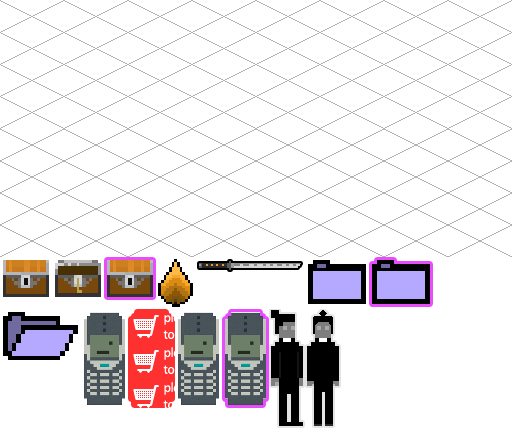
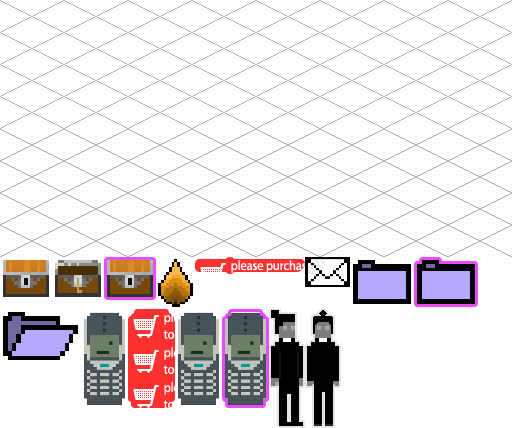
Added Contacts section

Changed region(s): [[0.375, 0.5771, 0.9375, 0.729]]

diff --git a/src/game/systems/PhaserOutputContactRoomCreationSystem.ts b/src/game/systems/PhaserOutputContactRoomCreationSystem.ts
@@ -1,0 +1,223 @@
+import System from "game/ECS/system"
+import {ISystemAdditional, ISystemPhaserInjectable} from "game/systems/index"
+import EntitiesManager from "game/ECS/entitiesmanager"
+
+const PhaserOutputContactRoomCreationSystemName = "PhaserOutputContactRoomCreationSystem"
+
+class PhaserOutputContactRoomCreationSystem extends System<ISystemAdditional, ISystemPhaserInjectable> {
+    public init(
+        entityManager: EntitiesManager,
+        additional: ISystemAdditional,
+        inj: ISystemPhaserInjectable,
+    ): undefined {
+
+        const thirdScreenOffsetY = inj.rooms.fourthRoom.offsetY
+
+        const titleY = thirdScreenOffsetY + 50
+
+        const title = inj.scene.add.text(
+            inj.leftTextStartOffsetX,
+            titleY,
+            "Contacts",
+            {
+                fontFamily: "Connection",
+                fontSize: 60,
+                stroke: "#000",
+                strokeThickness: 5,
+                fill: "#fff",
+            },
+        )
+
+        title.setDepth(inj.gameHeight)
+
+        const subtitleText = inj.scene.add.text(
+            inj.leftTextStartOffsetX,
+            titleY + title.height,
+            "Just call me maybe",
+            {
+                fontFamily: "Connection",
+                fontSize: 25,
+                stroke: "#000",
+                strokeThickness: 5,
+                fill: "#bdbdbd",
+            },
+        )
+
+        subtitleText.setDepth(inj.gameHeight)
+
+        const emailIcon = inj.scene.add.sprite(
+            inj.leftTextStartOffsetX,
+            thirdScreenOffsetY + inj.screenHeight / 2 - 20,
+            "mainatlas",
+            "objects/contacts/EmailIcon.psd",
+        )
+
+        const emailText = inj.scene.add.text(
+            emailIcon.x + emailIcon.width + 30,
+            emailIcon.y + 2,
+            "Email",
+            {
+                fontFamily: "Connection",
+                fontSize: 20,
+                fill: "#fff",
+                stroke: "#000",
+                strokeThickness: 3,
+            },
+        )
+
+        emailText.setDepth(inj.gameHeight)
+
+        const emailValueText = inj.scene.add.text(
+            emailText.x + emailText.width + 100,
+            emailIcon.y + 2,
+            "ditreyw@gmail.com",
+            {
+                fontFamily: "Connection",
+                fontSize: 20,
+                fill: "#e4910f",
+                stroke: "#000",
+                strokeThickness: 3,
+            },
+        )
+
+        emailValueText.setDepth(inj.gameHeight)
+        emailValueText.setInteractive({
+            useHandCursor: true,
+        })
+        emailValueText.on("pointerover", () => {
+            emailValueText.setFill("#eb41ff")
+        })
+        emailValueText.on("pointerout", () => {
+            emailValueText.setFill("#e4910f")
+        })
+
+        let emailValueTextClicked = false
+
+        emailValueText.on("pointerdown", () => {
+            emailValueTextClicked = true
+        })
+
+        const facebookIcon = inj.scene.add.sprite(
+            inj.leftTextStartOffsetX,
+            emailValueText.y + 50,
+            "mainatlas",
+            "objects/contacts/EmailIcon.psd",
+        )
+
+        const facebookText = inj.scene.add.text(
+            facebookIcon.x + facebookIcon.width + 30,
+            facebookIcon.y + 2,
+            "Facebook",
+            {
+                fontFamily: "Connection",
+                fontSize: 20,
+                fill: "#fff",
+                stroke: "#000",
+                strokeThickness: 3,
+            },
+        )
+
+        facebookText.setDepth(inj.gameHeight)
+
+        const facebookValueText = inj.scene.add.text(
+            facebookText.x + facebookText.width + 60,
+            facebookIcon.y + 2,
+            "@davidshekunts",
+            {
+                fontFamily: "Connection",
+                fontSize: 20,
+                fill: "#e4910f",
+                stroke: "#000",
+                strokeThickness: 3,
+            },
+        )
+
+        facebookValueText.setDepth(inj.gameHeight)
+        facebookValueText.setInteractive({
+            useHandCursor: true,
+        })
+        facebookValueText.on("pointerover", () => {
+            facebookValueText.setFill("#eb41ff")
+        })
+        facebookValueText.on("pointerout", () => {
+            facebookValueText.setFill("#e4910f")
+        })
+
+        let facebookValueTextClicked = false
+
+        facebookValueText.on("pointerdown", () => {
+            facebookValueTextClicked = true
+        })
+
+        const linkedInIcon = inj.scene.add.sprite(
+            inj.leftTextStartOffsetX,
+            facebookValueText.y + 50,
+            "mainatlas",
+            "objects/contacts/EmailIcon.psd",
+        )
+
+        const linkedInText = inj.scene.add.text(
+            linkedInIcon.x + linkedInIcon.width + 30,
+            linkedInIcon.y + 2,
+            "LinkedIn",
+            {
+                fontFamily: "Connection",
+                fontSize: 20,
+                fill: "#fff",
+                stroke: "#000",
+                strokeThickness: 3,
+            },
+        )
+
+        linkedInText.setDepth(inj.gameHeight)
+
+        const linkedInValueText = inj.scene.add.text(
+            linkedInText.x + linkedInText.width + 80,
+            linkedInIcon.y + 2,
+            "@davidshekunts",
+            {
+                fontFamily: "Connection",
+                fontSize: 20,
+                fill: "#e4910f",
+                stroke: "#000",
+                strokeThickness: 3,
+            },
+        )
+
+        linkedInValueText.setDepth(inj.gameHeight)
+        linkedInValueText.setInteractive({
+            useHandCursor: true,
+        })
+        linkedInValueText.on("pointerover", () => {
+            linkedInValueText.setFill("#eb41ff")
+        })
+        linkedInValueText.on("pointerout", () => {
+            linkedInValueText.setFill("#e4910f")
+        })
+
+        let linkedInValueTextClicked = false
+
+        linkedInValueText.on("pointerdown", () => {
+            facebookValueTextClicked = true
+        })
+
+        inj.scene.input.addUpCallback(() => {
+            if (emailValueTextClicked) {
+                window.prompt("Copy to clipboard: Ctrl+C, Enter", "ditreyw@gmail.com")
+                emailValueTextClicked = false
+            }
+            if (facebookValueTextClicked) {
+                window.open("https://www.facebook.com/davidshekunts", "_blank")
+                facebookValueTextClicked = false
+            }
+            if (linkedInValueTextClicked) {
+                window.open("https://www.facebook.com/davidshekunts", "_blank")
+                linkedInValueTextClicked = false
+            }
+        }, false)
+
+        return
+    }
+}
+
+export default new PhaserOutputContactRoomCreationSystem(PhaserOutputContactRoomCreationSystemName)

diff --git a/src/game/scenes/GameScene.ts b/src/game/scenes/GameScene.ts
@@ -30,6 +30,7 @@ import {EFoldersType, projectsByFoldersType, projectsById} from "game/models/Por
 import PhaserInputVelocitySystem from "game/systems/PhaserInputVelocitySystem"
 import PhaserOutputProjectSystem from "game/systems/PhaserOutputProjectSystem"
 import GoToTextBtn from "game/objects/GoToTextBtn"
+import PhaserOutputContactRoomCreationSystem from "game/systems/PhaserOutputContactRoomCreationSystem"
 
 const ECS = new ECSManager([
     PhaserInputPositionSystem,
@@ -39,6 +40,7 @@ const ECS = new ECSManager([
     // DashSystem,
     WorldBorderCollisionSystem,
     DynamicDepthSystem,
+    PhaserOutputContactRoomCreationSystem,
     PhaserOutputChestSystem,
     PhaserOutputFolderSystem,
     PhaserOutputProjectSystem,
@@ -101,7 +103,7 @@ export class GameScene extends Phaser.Scene {
         })
         this.spawnPosition = {
             x: this.gameWidth - 100,
-            y: this.rooms.thirdRoom.offsetY + this.screenHeight / 2,
+            y: this.rooms.fourthRoom.offsetY + this.screenHeight / 2,
         }
     }
 
@@ -536,6 +538,9 @@ export class GameScene extends Phaser.Scene {
             deltaTimeScaled: 0,
             projectsById,
             projectsGOGroup: this.projects,
+            rooms: this.rooms,
+            leftTextStartOffsetX: this.leftTextStartOffsetX,
+            screenHeight: this.screenHeight,
         })
     }
 
@@ -600,6 +605,9 @@ export class GameScene extends Phaser.Scene {
             deltaTimeScaled: delta * this.timeSpeedScale.value,
             projectsById,
             projectsGOGroup: this.projects,
+            rooms: this.rooms,
+            leftTextStartOffsetX: this.leftTextStartOffsetX,
+            screenHeight: this.screenHeight,
         })
     }
 }

diff --git a/src/game/objects/GoToTextBtn.ts b/src/game/objects/GoToTextBtn.ts
@@ -3,6 +3,7 @@ export default class GoToTextBtn extends Phaser.GameObjects.Container {
     public id: string
     public btnText: Phaser.GameObjects.Text
     public rect: Phaser.GameObjects.Rectangle
+    private btnClicked: boolean = false
 
     constructor(scene: Phaser.Scene, x: number, y: number, depth: number, center: boolean = false) {
         super(scene, x, y)
@@ -35,6 +36,10 @@ export default class GoToTextBtn extends Phaser.GameObjects.Container {
 
         this.rect.on("pointerout", this.pointerOut)
 
+        this.rect.on("pointerdown", () => {
+            this.btnClicked = true
+        })
+
         this.btnText = scene.add.text(
             x + 13,
             y + 10,
@@ -59,10 +64,17 @@ export default class GoToTextBtn extends Phaser.GameObjects.Container {
         const link = "https://docs.google.com/document/d/" +
             "1oRlYkKEH-9g2wk6Aiiu_-K1tYsw7BHF3OeuCPhi_Aes/edit#heading=h.sgsvqiccdupn"
 
-        // this.btnText.setPadding(12, 10, 20, 10)
-        this.btnText.setInteractive().on("pointerdown", () => {
-            window.open(link, "_self")
+        this.btnText.on("pointerdown", () => {
+            this.btnClicked = true
         })
+
+        scene.input.addUpCallback(() => {
+            if (this.btnClicked) {
+                window.open(link, "_blank")
+                this.btnClicked = false
+            }
+        }, false)
+
         this.btnText.setDepth(depth + 1)
     }
 

diff --git a/src/layouts/Main.tsx b/src/layouts/Main.tsx
@@ -39,9 +39,9 @@ class MainLayout extends React.Component<IProps, IState> {
                         <div className={ cx("leftMenu") }>
                             <div className={ cx("leftMenuContent") }>
                                 <div className={ cx("contacts") }>
-                                    <div className={ cx("item") }>
+                                    <a href={ "https://vk.com/david_shekunts" } target={ "_blank" } id={ "contactEmailId" } className={ cx("item") }>
                                         C
-                                    </div>
+                                    </a>
                                     <div className={ cx("item") }>
                                         C
                                     </div>

diff --git a/src/game/systems/index.ts b/src/game/systems/index.ts
@@ -2,6 +2,7 @@ import Cursors from "game/models/Cursors"
 import Player from "game/objects/Player"
 import GOManager from "game/GOManager"
 import {IProjectsById} from "game/models/Portfolio"
+import Room from "game/models/Room"
 
 export interface ISystemAdditional {
     time: number,
@@ -20,6 +21,9 @@ export interface ISystemPhaserInjectable {
     },
     deltaTimeScaled: number
     projectsById: IProjectsById
+    leftTextStartOffsetX: number
+    rooms: { [key: string]: Room }
+    screenHeight: number
     // folders: Phaser.GameObjects.Group
     projectsGOGroup: Phaser.GameObjects.Group
 }
